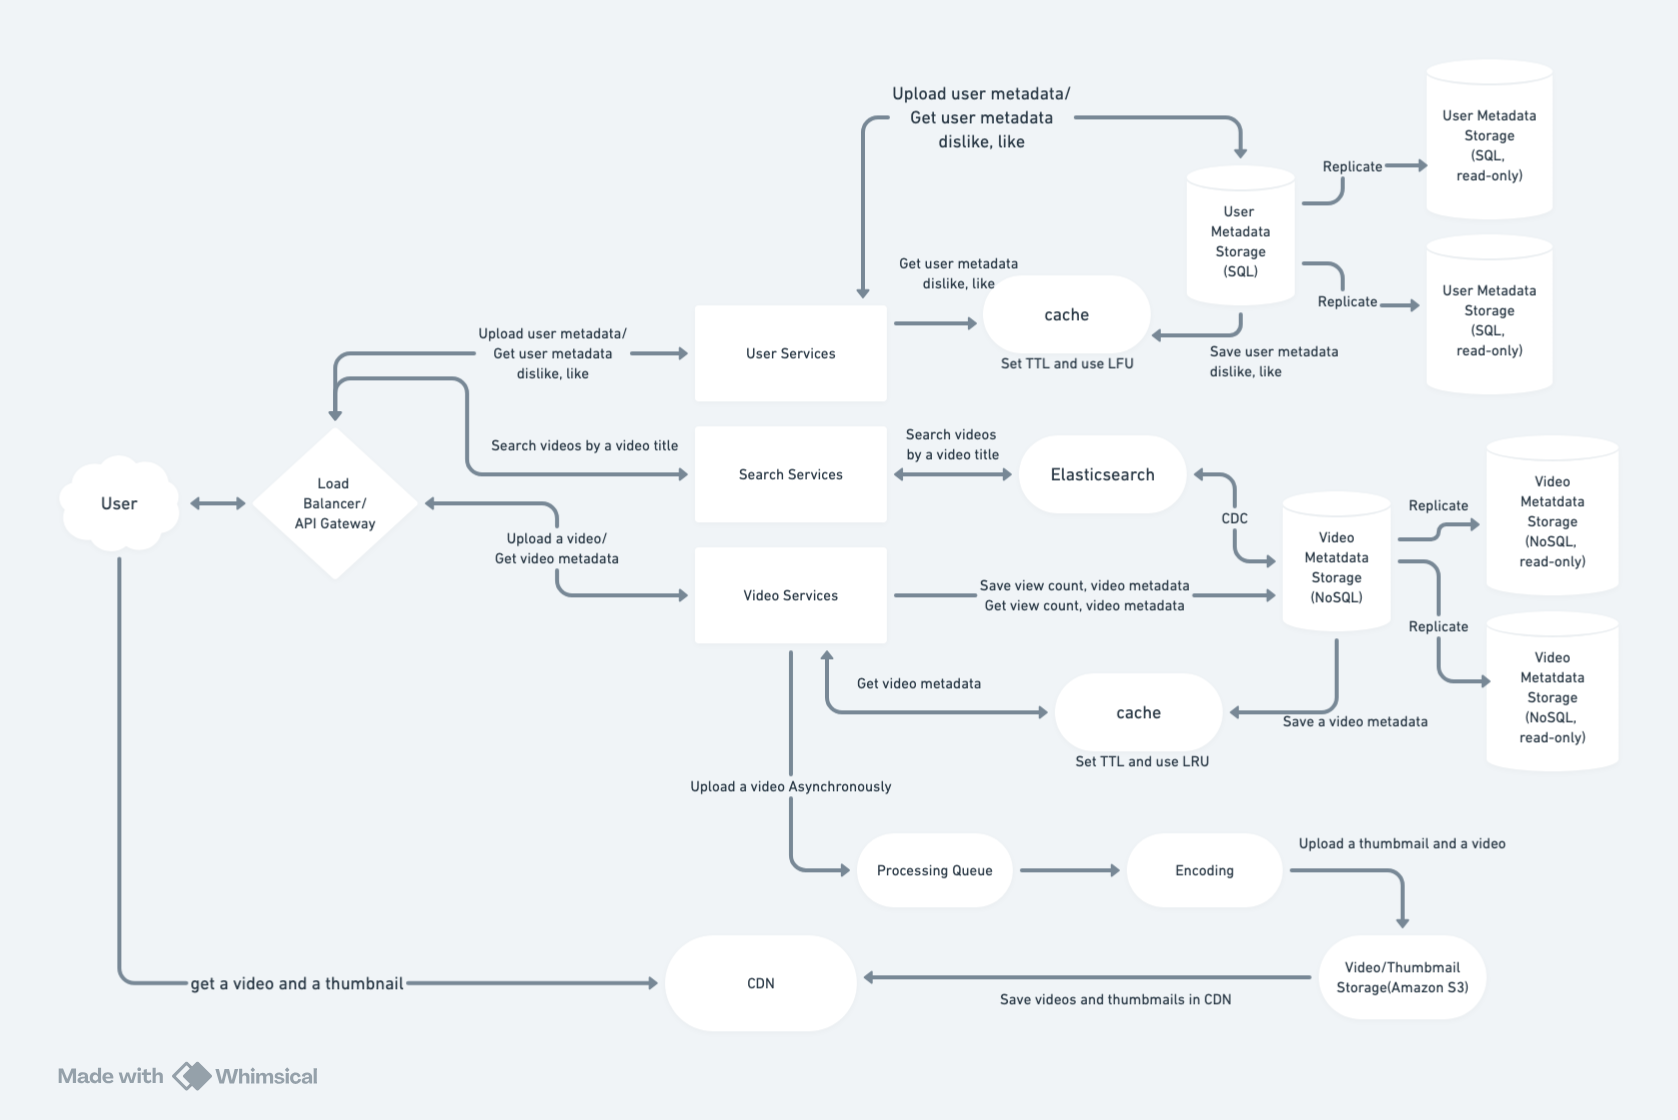
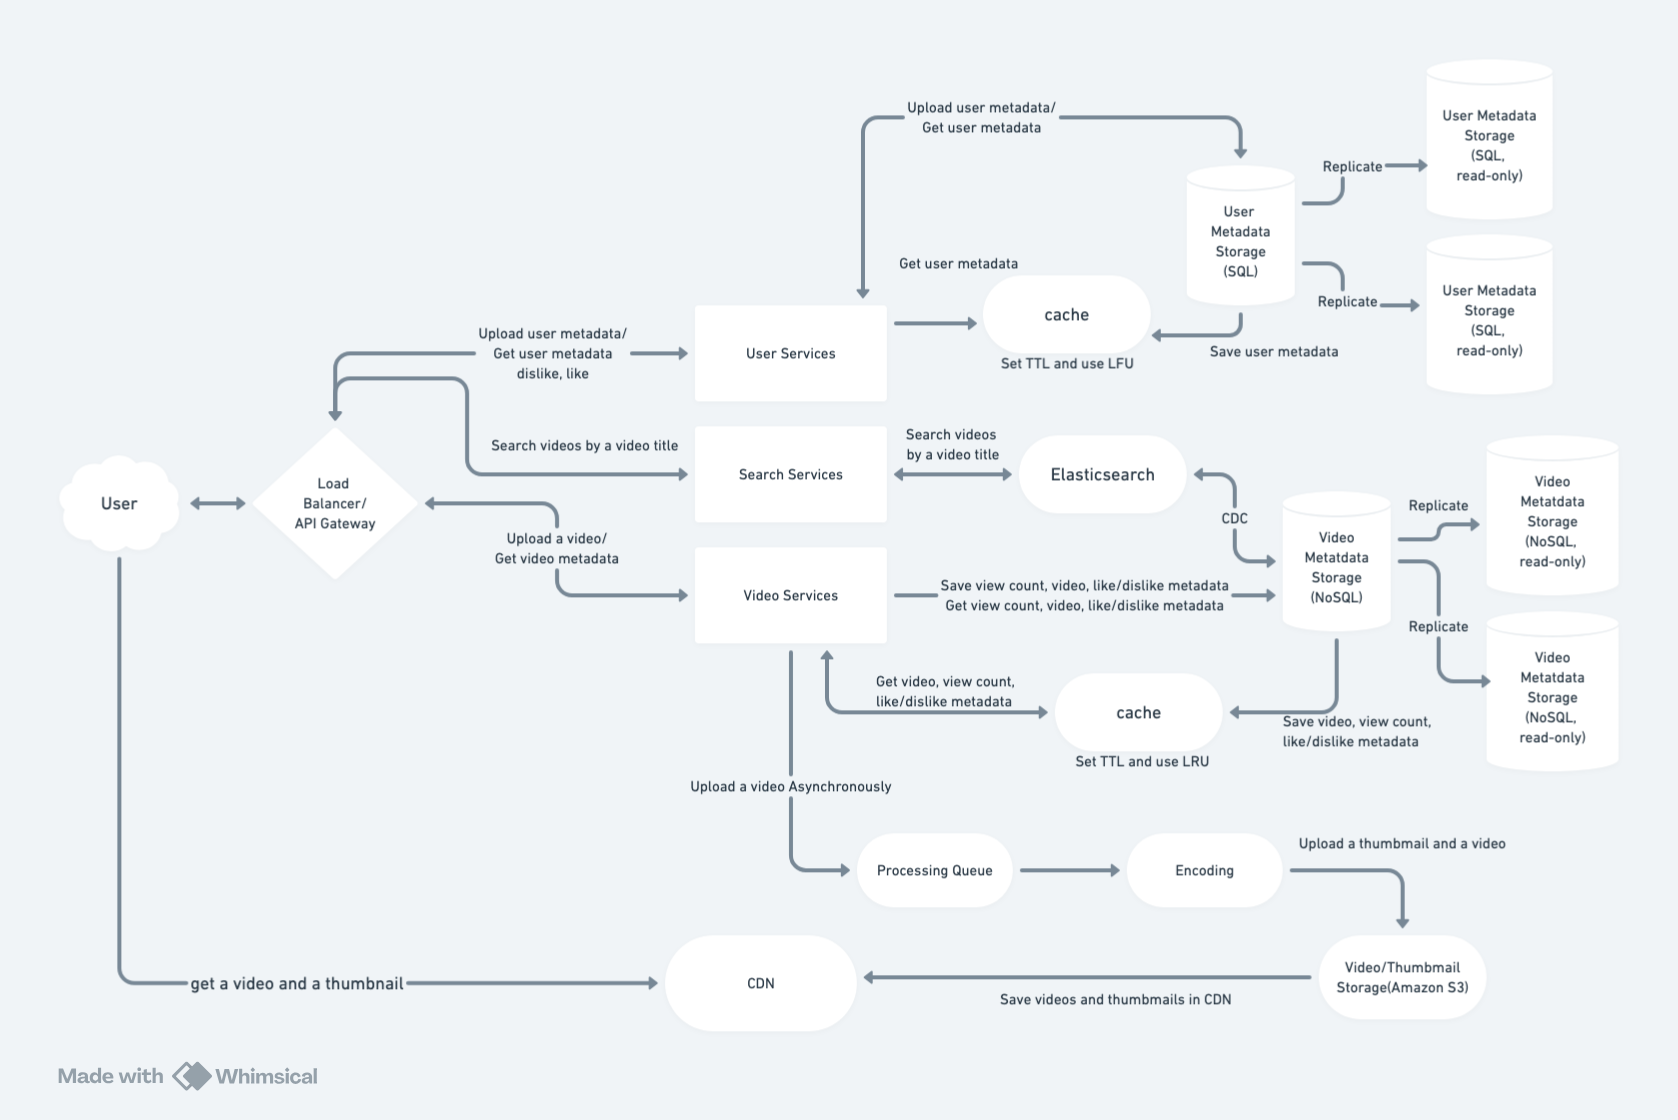
[배포] Notion 변경 사항 저장

diff --git a/_posts/2024-08-12-[SystemDesign-Youtube]-System-flows.md b/_posts/2024-08-12-[SystemDesign-Youtube]-System-flows.md
@@ -9,32 +9,29 @@ categories: [SystemDesign, Youtube, ]
 
 ### **User Interaction**
 
-- **Users** interact with the system through a **Load Balancer/API Gateway**, which routes requests to the appropriate backend services.
+- **Users** access the platform through a **Load Balancer/API Gateway**, which routes their requests to the appropriate backend services.
 
 #### **User Services**
 
-- **User Metadata**: Manages user-related data like likes, dislikes, and other preferences. This data is stored in a **SQL database** and replicated to read-only instances to handle high read volumes.
-- **Caching**: Frequently accessed user metadata is stored in a cache with an **LRU** (Least Recently Used) strategy to improve performance.
+- Manages user-related data (likes, dislikes). This data is cached using **LFU** (Least Frequently Used) to keep frequently accessed data readily available, and is stored in a **SQL database** with read-only replicas to handle high read volumes.
 
 #### **Search Services**
 
-- **Video Search**: Handles searching for videos by title using **Elasticsearch**, which indexes video metadata for fast retrieval.
+- Handles video search functionality using **Elasticsearch**, which indexes video metadata to allow for fast and efficient searches by video title.
 
 #### **Video Services**
 
-- **Video Metadata**: Manages video-related data such as views, likes, and metadata. This data is stored in a **NoSQL database** and also replicated to read-only instances for scalability.
-- **Caching**: Similar to user metadata, frequently accessed video metadata is cached.
+- Manages video metadata (e.g., view counts, likes/dislikes). This data is cached using **LRU** (Least Recently Used) to ensure that the most recently accessed data remains in the cache, and is stored in a **NoSQL database** with replication for scalability.
 
 #### **Video Upload and Processing**
 
-- **Asynchronous Uploads**: Users upload videos, which are then placed in a **Processing Queue** for asynchronous handling.
-- **Encoding**: Videos in the queue are processed by an encoding service, which converts them into various formats and resolutions.
-- **Storage**: Encoded videos and thumbnails are stored in **Amazon S3** and then delivered to users via a **Content Delivery Network (CDN)** for efficient playback.
+- Users upload videos asynchronously, which are placed in a **Processing Queue**.
+- The videos are then encoded into various formats by the encoding service, stored in **Amazon S3**, and distributed to users via a **Content Delivery Network (CDN)**.
 
-#### **Data Flow and Replication**
+#### **Data Flow**
 
-- **Data Replication**: Both user and video metadata are replicated to read-only databases to handle high read demand, ensuring that the system remains responsive under load.
-- **Cache Invalidation**: TTL (Time-To-Live) and LRU strategies are used to manage cache validity and optimize data retrieval.
+- **Replication**: User and video metadata are replicated to read-only instances to handle read operations efficiently.
+- **Caching**: Metadata is cached to improve performance, with **LFU** used for user data and **LRU** for video data.
 
 ![0](/assets/img/2024-08-12-[SystemDesign-Youtube]-System-flows.md/0.png)
 
